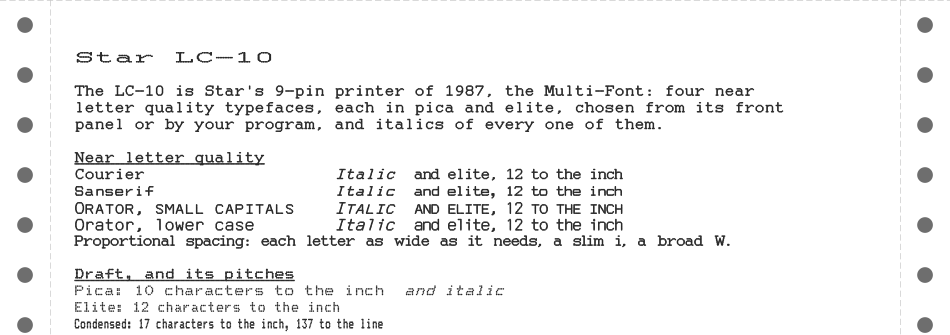
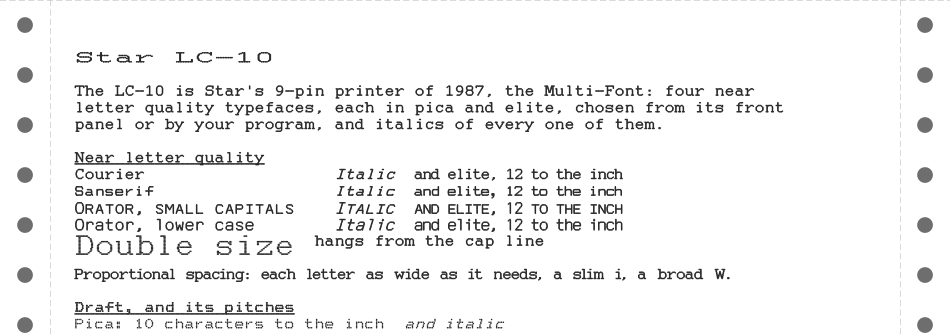
Print the LC-10's character sizes
ESC h prints double and quadruple size, or either's upper or lower half
for building them from two lines, hanging from the cap line; ESC w
doubles the height on the base line; ESC [ @ sets height, line spacing
and width apart. Enlarged characters are always NLQ. The character
generator's enlarged_dots turns each half-pin NLQ row into pin rows and
spreads each column, as the LC-10 doubles them; a line holding enlarged
characters feeds as far as the largest asks, as the firmware's
sequencer does. The demonstration page shows double size.

Changed region(s): [[0.0611, 0.806, 0.7632, 0.9851], [0.0611, 0.6866, 0.7632, 0.7761]]

diff --git a/packages/papyrium-language-escp/src/papyrium/language/escp/interpreter.py b/packages/papyrium-language-escp/src/papyrium/language/escp/interpreter.py
@@ -189,6 +189,15 @@ class EscpInterpreter(Interpreter):
         self._underline = False
         self._extra_space = 0
         self._slashed_zero = mechanism.slashed_zero
+        # Character size: height and width scales, the half printed, whether
+        # the base line stays put, and the scale of line feeds.
+        self._height_scale = 1
+        self._width_scale = 1
+        self._half: str | None = None
+        self._base_line_kept = False
+        self._spacing_scale = 1
+        # The most a character on the current line scales its line feed.
+        self._line_feed_scale = 1
         self._script: str | None = None
         self._msb: int | None = None
         self._character_set = mechanism.character_set
@@ -308,6 +317,11 @@ class EscpInterpreter(Interpreter):
     def _character(self, byte: int) -> None:
         location = self._location(byte)
         italic = self._is_italic(location)
+        if self._height_scale > 1:
+            enlarged = self._enlarged_glyph(location)
+            if enlarged is not None:
+                self._enlarged_character(location, enlarged)
+                return
         nlq_glyph = self._nlq_glyph(location)
         if nlq_glyph is not None:
             self._nlq_character(location, nlq_glyph, italic)
@@ -324,6 +338,44 @@ class EscpInterpreter(Interpreter):
             entry.dots.extend(self._underline_dots(width))
         self._line.append(entry)
         self._x += width + self._extra_space
+        if self._immediate:
+            self._print_line()
+
+    def _enlarged_glyph(self, location: int) -> Glyph | None:
+        """The NLQ glyph an enlarged character prints, in draft or NLQ."""
+        font = self._nlq_font()
+        if font is None or self._glyph_source(location)[0] != "rom":
+            return None
+        character = self._rom_character(location)
+        if character == "0" and self._slashed_zero:
+            character = SLASHED_ZERO
+        return font.glyph(character)
+
+    def _enlarged_character(self, location: int, glyph: Glyph) -> None:
+        cell = self._column_width()
+        width_scale = self._width_scale * (2 if self._is_double_width() else 1)
+        width = cell * width_scale
+        if self._x + width > self._right_limit(text=True):
+            self._wrap()
+        pin_pitch = self._mechanism.pin_pitch
+        step = cell // self._nlq_font().columns
+        dots = self._generator.enlarged_dots(
+            glyph, step, width_scale, self._height_scale, pin_pitch
+        )
+        # A half is eight pins for each doubling of the height.
+        half = 8 * (self._height_scale // 2) * pin_pitch
+        if self._half == "upper":
+            dots = [(dx, dy) for dx, dy in dots if dy < half]
+        elif self._half == "lower":
+            dots = [(dx, dy - half) for dx, dy in dots if dy >= half]
+        raise_by = half if self._base_line_kept else 0
+        entry = _Entry(self._x, [(self._x + dx, self._y + dy - raise_by) for dx, dy in dots])
+        entry.text.append(self._text_mark(location, width))
+        if self._underline:
+            entry.dots.extend(self._underline_dots(width))
+        self._line.append(entry)
+        self._x += width + self._extra_space
+        self._line_feed_scale = max(self._line_feed_scale, self._spacing_scale)
         if self._immediate:
             self._print_line()
 
@@ -659,7 +711,9 @@ class EscpInterpreter(Interpreter):
 
     def _advance_line(self) -> None:
         self._one_line_double_width = False
-        self._advance(self._line_spacing)
+        scale = max(self._spacing_scale, self._line_feed_scale)
+        self._line_feed_scale = 1
+        self._advance(self._line_spacing * scale)
         if self._skip_perforation:
             form_bottom = self._form_top + self._form_length
             if form_bottom - self._skip_perforation <= self._y < form_bottom:
@@ -819,6 +873,9 @@ class EscpInterpreter(Interpreter):
             "\n": self._esc_reverse_line_feed,
             "\x0c": self._esc_top_of_page,
             "+": self._esc_macro,
+            "h": self._esc_size,
+            "w": self._esc_double_height,
+            "[": self._esc_bracket,
         }
         if self._mechanism.nlq:
             table["x"] = self._esc_nlq
@@ -1211,6 +1268,56 @@ class EscpInterpreter(Interpreter):
                 macro.append(byte)
             byte = yield
         self._macro = bytes(macro)
+
+    #: ESC h n: height and width scale, half, and line feed scale.
+    _SIZES = {
+        0: (1, 1, None, 1),
+        1: (2, 2, None, 2),
+        2: (4, 4, None, 4),
+        3: (2, 2, "lower", 1),
+        4: (2, 2, "upper", 1),
+        5: (4, 4, "lower", 2),
+        6: (4, 4, "upper", 2),
+    }
+
+    def _esc_size(self) -> ArgumentReader:
+        """Double or quadruple size, or one half of it, hanging from the cap line."""
+        n = yield
+        size = self._SIZES.get(n)
+        if size is None:
+            logger.debug("ignoring character size %d", n)
+            return
+        self._print_line()
+        self._height_scale, self._width_scale, self._half, self._spacing_scale = size
+        self._base_line_kept = False
+        self._script = None
+
+    def _esc_double_height(self) -> ArgumentReader:
+        """Double height on the base line, line spacing unchanged."""
+        on = self._flag((yield))
+        self._print_line()
+        self._height_scale, self._width_scale, self._half = (2 if on else 1), 1, None
+        self._base_line_kept = on
+        self._spacing_scale = 1
+
+    def _esc_bracket(self) -> ArgumentReader:
+        """ESC [ @ 4 0 0 0 n m: height and line spacing by n, width by m."""
+        if (yield) != ord("@"):
+            logger.debug("ignoring an ESC [ command other than ESC [ @")
+            return
+        for _ in range(4):
+            yield
+        n = yield
+        m = yield
+        self._print_line()
+        height, spacing = n & 0x0F, n >> 4
+        if height in (1, 2):
+            self._height_scale, self._width_scale, self._half = height, 1, None
+            self._base_line_kept = height == 2
+        if spacing in (1, 2):
+            self._spacing_scale = spacing
+        if m in (1, 2):
+            self._double_width = m == 2
 
     def _esc_typeface(self) -> ArgumentReader:
         """Choose the NLQ typeface; in draft it is kept for the next ESC x 1."""

diff --git a/packages/papyrium-language-escp/tests/test_character_sizes.py b/packages/papyrium-language-escp/tests/test_character_sizes.py
@@ -1,0 +1,99 @@
+"""Character sizes, as the Star LC-10 prints them: ESC h, ESC w and ESC [ @.
+
+Enlarged characters are always near letter quality. The test NLQ font's A
+has a dot in column 0 of row 0 and one in column 1 of row 1; columns are
+1/240 inch apart (18 units), rows 1/144 inch.
+"""
+
+from helpers import ESC, LEFT, LINE, PICA, dots
+from test_variants import _nlq_font
+
+from papyrium.core.testing import MemoryDotFont
+
+PIN = 60
+NLQ = {"nlq": True, "nlq_fonts": (_nlq_font(0),)}
+
+
+def _sorted(data, **options):
+    return sorted(dots(data, **NLQ, **options))
+
+
+def test_double_size_doubles_rows_into_pins_and_widens_each_column():
+    assert _sorted(ESC + b"h\x01A") == [
+        (LEFT, 0),
+        (LEFT + 36, 0),
+        (LEFT + 36, PIN),
+        (LEFT + 72, PIN),
+    ]
+
+
+def test_enlarged_characters_print_in_nlq_even_in_draft():
+    assert _sorted(ESC + b"h\x01A") == sorted(dots(ESC + b"x\x00" + ESC + b"h\x01A", **NLQ))
+
+
+def test_double_size_advances_two_columns_and_feeds_two_lines():
+    printed = dots(ESC + b"h\x01AA\nA", **NLQ)
+    assert printed[4][0] == LEFT + 2 * PICA
+    assert printed[8][1] == 2 * LINE
+
+
+def test_quadruple_size_takes_two_pins_a_row_and_three_columns_a_column():
+    assert _sorted(ESC + b"h\x02A") == sorted(
+        [(LEFT + x, y) for x in (0, 36, 72) for y in (0, PIN)]
+        + [(LEFT + x, y) for x in (72, 108, 144) for y in (2 * PIN, 3 * PIN)]
+    )
+
+
+def test_quadruple_size_feeds_four_lines():
+    assert dots(ESC + b"h\x02A\nA", **NLQ)[12][1] == 4 * LINE
+
+
+def test_esc_h_0_returns_to_normal_size():
+    data = ESC + b"x\x01" + ESC + b"h\x01" + ESC + b"h\x00A"
+    assert dots(data, **NLQ) == [(LEFT, 0), (LEFT + 18, 20)]
+
+
+def _tall_font():
+    rows = ["." * 24 for _ in range(18)]
+    rows[0] = "#" + rows[0][1:]
+    rows[16] = "#" + rows[16][1:]
+    return MemoryDotFont(name="tall", text="rows 18\ncolumns 24\nU+0041\n" + "\n".join(rows) + "\n")
+
+
+TALL = {"nlq": True, "nlq_fonts": (_tall_font(),)}
+
+
+def test_the_upper_half_keeps_the_top_eight_pins():
+    assert sorted(dots(ESC + b"h\x04A", **TALL)) == [(LEFT, 0), (LEFT + 36, 0)]
+
+
+def test_the_lower_half_moves_the_bottom_up_to_the_line():
+    # Row 16 doubles to pin 16; the lower half begins at pin 8.
+    assert sorted(dots(ESC + b"h\x03A", **TALL)) == [(LEFT, 8 * PIN), (LEFT + 36, 8 * PIN)]
+
+
+def test_halves_keep_the_line_spacing():
+    assert dots(ESC + b"h\x04A\nA", **TALL)[2][1] == LINE
+
+
+def test_esc_w_doubles_the_height_keeping_the_base_line_and_spacing():
+    data = ESC + b"x\x01\n\n" + ESC + b"w\x01A" + ESC + b"w\x00\nA"
+    printed = sorted(dots(data, **NLQ))
+    assert printed[0] == (LEFT, 2 * LINE - 8 * PIN)
+    # Single width; the next line is one line down.
+    assert [x for x, y in printed if y < 3 * LINE] == [LEFT, LEFT + 18]
+    assert max(y for _, y in printed) == 3 * LINE + 20
+
+
+def test_esc_bracket_at_sets_height_spacing_and_width():
+    size = ESC + b"[@\x04\x00\x00\x00"
+    data = ESC + b"x\x01\n\n" + size + b"\x22\x02A\n" + size + b"\x11\x01A"
+    printed = sorted(dots(data, **NLQ))
+    assert printed[0] == (LEFT, 2 * LINE - 8 * PIN)
+    assert (LEFT + 36, 2 * LINE - 8 * PIN) in printed  # double width
+    assert max(y for _, y in printed) == 4 * LINE + 20  # double spacing
+
+
+def test_a_line_holding_enlarged_characters_feeds_further_after_normal_size_returns():
+    assert dots(ESC + b"h\x01A" + ESC + b"h\x00\nA", **NLQ)[4][1] == 2 * LINE
+    assert dots(ESC + b"h\x01A" + ESC + b"h\x00\nA\nA", **NLQ)[5][1] == 3 * LINE

diff --git a/packages/papyrium-language-escp/src/papyrium/language/escp/generator.py b/packages/papyrium-language-escp/src/papyrium/language/escp/generator.py
@@ -102,6 +102,26 @@ class CharacterGenerator:
         columns *step* apart: not at all, NLQ printing upright."""
         return 0
 
+    def enlarged_dots(
+        self, glyph: Glyph, step: int, width_scale: int, height_scale: int, pin_pitch: int
+    ) -> list[Dot]:
+        """The dots of an enlarged NLQ character, its columns *step* apart.
+
+        Each of the glyph's rows, half a pin apart, becomes *height_scale* / 2
+        rows of pins, and each column *width_scale* columns, its dots
+        repeated every other column across them to fill the gap, as the Star
+        LC-10 doubles them.
+        """
+        result = []
+        pins = max(1, height_scale // 2)
+        repeats = range(0, width_scale + 1, 2) if width_scale > 1 else (0,)
+        for column, row in sorted(glyph.dots, key=lambda dot: (dot[1], dot[0])):
+            for pin in range(pins):
+                dy = (row * pins + pin) * pin_pitch
+                for repeat in repeats:
+                    result.append(((column * width_scale + repeat) * step, dy))
+        return result
+
     def draft_dots(self, glyph: Glyph, style: CharacterStyle, pin_pitch: int) -> list[Dot]:
         """The dots of a draft character, relative to the head."""
         if self.prints_adjacent_dots_once:

diff --git a/packages/papyrium-model-star-lc10/src/papyrium/model/star_lc10/demo.py b/packages/papyrium-model-star-lc10/src/papyrium/model/star_lc10/demo.py
@@ -36,6 +36,7 @@ def demo() -> bytes:
             _typeface(2, "Orator, small capitals"),
             _typeface(3, "Orator, lower case"),
             ESC + b"k\x00",
+            line(ESC + b"h\x01", "Double size", ESC + b"h\x00", "  hangs from the cap line"),
             line(
                 ESC + b"p\x01",
                 "Proportional spacing: each letter as wide as it needs, a slim i, a broad W.",

diff --git a/packages/papyrium-model-star-lc10/README.md b/packages/papyrium-model-star-lc10/README.md
@@ -42,11 +42,13 @@ the printer's DIP switches and paper:
 Star's additions to ESC/P are obeyed: absolute and relative positioning
 (`ESC $`, `ESC \`), both margins at once (`ESC X`), extra space between
 characters (`ESC SP`), moving to a column (`ESC f 0`), the slashed zero (`ESC ~`), reverse line feed and
-top of page (`ESC LF`, `ESC FF`) and the macro (`ESC +`).
+top of page (`ESC LF`, `ESC FF`) and the macro (`ESC +`). Character
+sizes print as the LC-10 prints them, always in near letter quality:
+double and quadruple size and their halves (`ESC h`), double height on
+the base line (`ESC w`), and `ESC [ @`.
 
 Not modelled yet: IBM mode (switch 1-6), overline (`ESC _`), the top
-margin (`ESC c`), proportional spacing in elite, character sizes (`ESC h`, `ESC w`,
-`ESC [ @`), LF without a carriage return (switch
+margin (`ESC c`), proportional spacing in elite, LF without a carriage return (switch
 1-2), download characters as the LC-10 defines them, and the LC-10
 Colour.
 

diff --git a/docs/star-lc10-firmware.md b/docs/star-lc10-firmware.md
@@ -249,6 +249,15 @@ superscript and subscript. The line sequencer has a branch for each
 `$CC7A`, its upper and lower halves to `$CC54` and `$CC46`, double's
 upper and lower halves to `$CB4E` and `$CB19`.
 
+Papyrium follows this: double size turns each 1/144 inch NLQ row into
+a 1/72 inch pin row, two passes 8 pins apart covering the character,
+and repeats each 1/240 inch column's dots two columns on to fill the
+widened gap (`$FC7D`). Quadruple size is taken to do the same twice
+over, two pins a row and three columns a column; that is inferred, not
+traced. A line holding enlarged characters feeds as far as the largest
+asks, even after normal size returns, as the sequencer's deferred feed
+does.
+
 Superscript and subscript appear to be made by keeping every other row
 of the character's columns, the pass choosing which (`$E2F8`); this is
 not yet confirmed.
